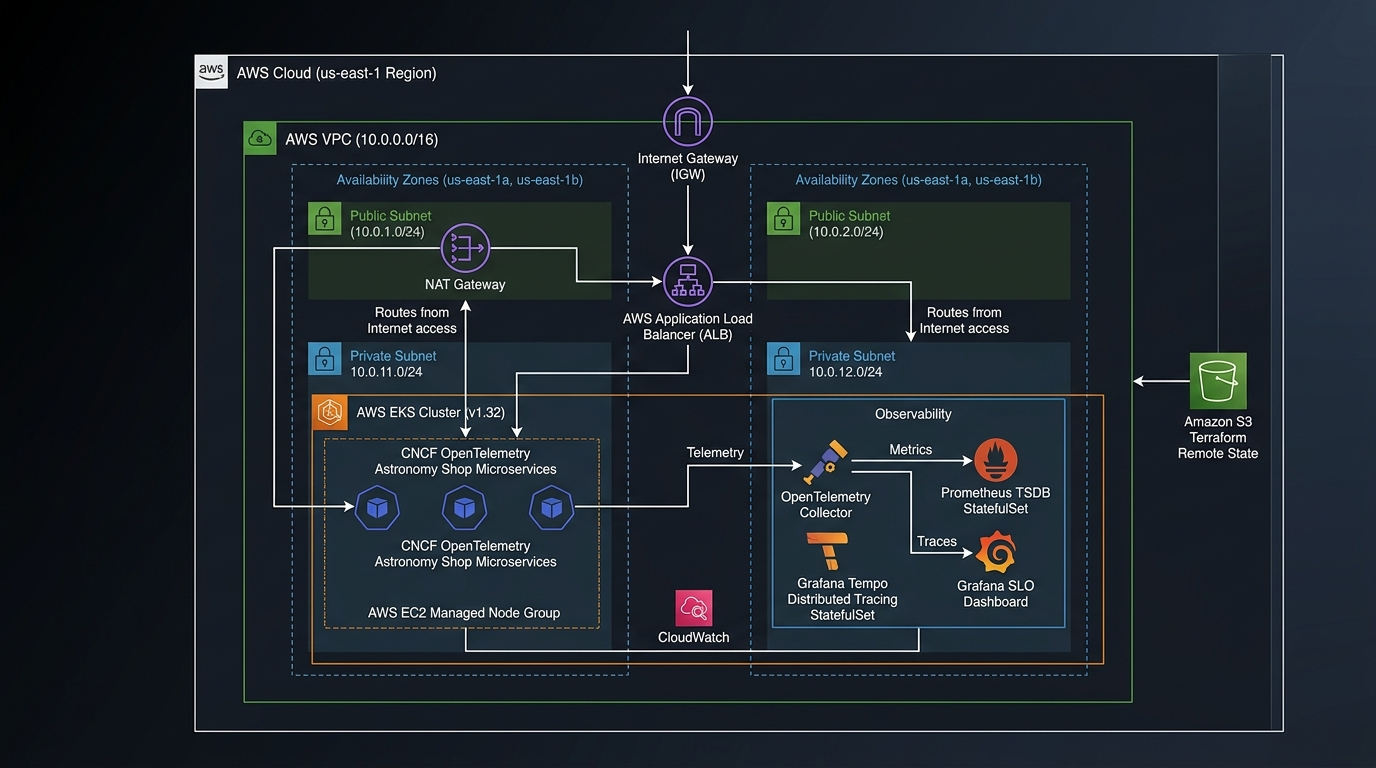
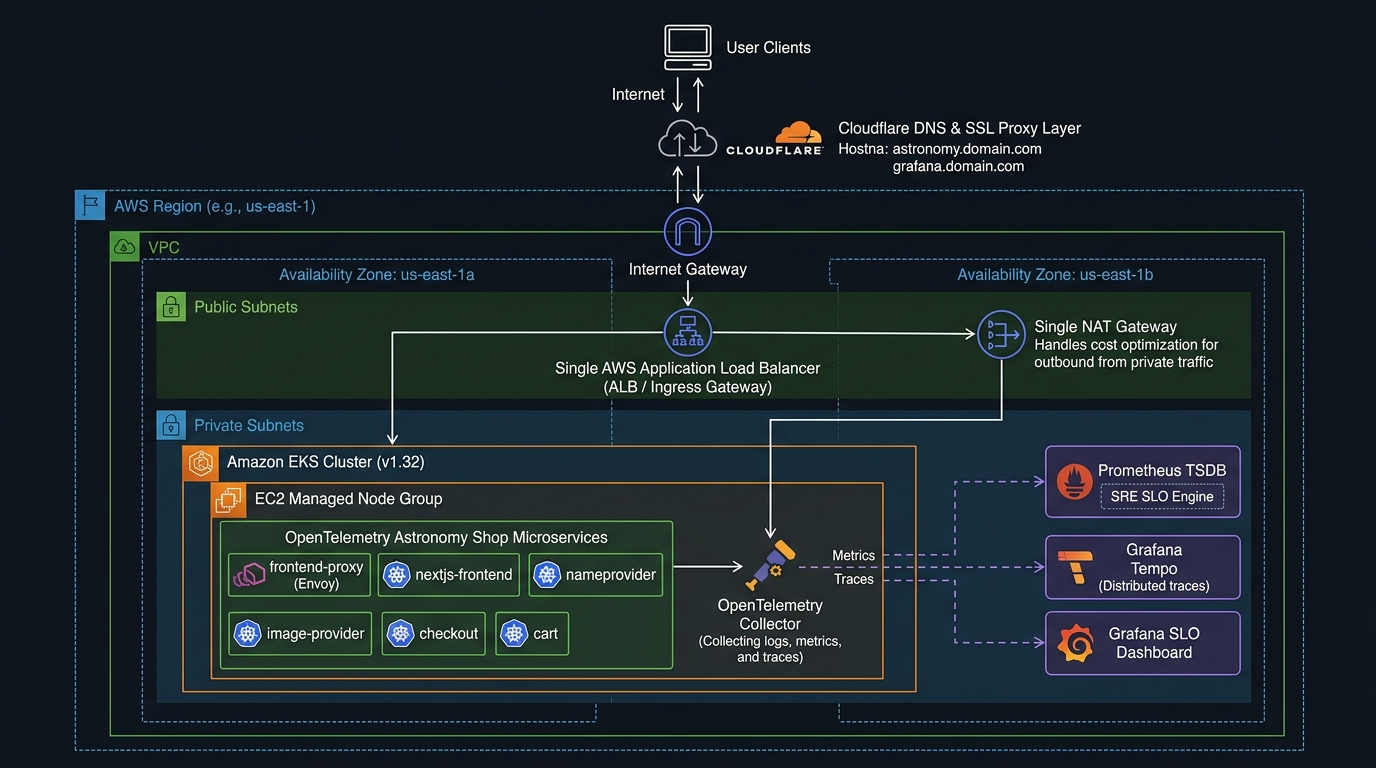
feat(infra): add toggleable Cloudflare DNS/SSL module, fix image-provider in Helm values, and update architecture diagram in README

diff --git a/README.md b/README.md
@@ -27,55 +27,13 @@ Bu proje; Cloud Native Computing Foundation (CNCF) resmi **OpenTelemetry Astrono
 
 Altyapı; AWS üzerinde çift Kullanılabilirlik Alanında (Multi-AZ) konuşlanan VPC, genel ve özel alt ağlar, tekil NAT Gateway (maliyet optimizasyonu), Kubernetes v1.32 EKS Kümesi ve EC2 Managed Node Group bileşenlerinden oluşur.
 
-```mermaid
-flowchart TD
-    subgraph CLIENT_LAYER [Kullanıcı & Yük Üretici]
-        USERS[Müşteri / Tarayıcı]
-        LOCUST[Locust Load Generator Pod]
-    end
+![AWS EKS & SRE Telemetry Architecture](docs/images/aws_architecture_diagram.jpg)
 
-    subgraph AWS_VPC [AWS VPC - 10.x.0.0/16]
-        IGW[Internet Gateway]
-        ALB[AWS Application Load Balancer]
-        
-        subgraph EKS_CLUSTER [AWS EKS Cluster v1.32]
-            subgraph APP_NS [Namespace: astronomy-shop]
-                FRONTEND[frontend-web]
-                CHECKOUT[checkoutservice]
-                CART[cartservice]
-                PAYMENT[paymentservice]
-                CATALOG[productcatalogservice]
-                SHIPPING[shippingservice]
-                FLAGD[flagd Feature Flag Chaos]
-            end
-
-            subgraph OTEL_NS [Namespace: opentelemetry]
-                OTEL_COL[OpenTelemetry Collector\nOTLP gRPC :4317 / HTTP :4318]
-            end
-
-            subgraph MON_NS [Namespace: monitoring]
-                PROM[(Prometheus TSDB StatefulSet\nSLO & Burn Rate Rules)]
-                TEMPO[(Grafana Tempo StatefulSet\nDistributed Tracing TSDB)]
-                GRAFANA[Grafana v11 Dashboard\nSLO & Error Budget Panelleri]
-            end
-        end
-    end
-
-    subgraph AWS_STORAGE [Durum & Depolama]
-        S3[(Amazon S3 State Bucket\nastronomy-tfstate-...)]
-    end
-
-    USERS -->|HTTP| ALB --> FRONTEND
-    LOCUST -->|Sürekli Trafik| FRONTEND
-    FLAGD -.->|Kaos / Hata Enjeksiyonu| CHECKOUT
-
-    FRONTEND & CHECKOUT & CART & PAYMENT & CATALOG & SHIPPING -->|OTLP Traces & Metrics| OTEL_COL
-    OTEL_COL -->|Prometheus Exporter :8889| PROM
-    OTEL_COL -->|OTLP gRPC Exporter| TEMPO
-
-    GRAFANA -->|PromQL| PROM
-    GRAFANA -->|TraceQL| TEMPO
-```
+### Mimari Katmanlar ve Trafik Akışı:
+1. **Giriş & Yönlendirme Katmanı (Ingress & DNS):** İsteğe bağlı Cloudflare DNS & SSL proxy katmanı (`astronomy.domain.com` ve `grafana.domain.com`) üzerinden gelen istekler, AWS Multi-AZ genel alt ağlarındaki tekil Ingress Gateway (ALB) tarafından karşılanır.
+2. **Uygulama Katmanı (EKS Private Subnets):** Ingress Gateway gelen trafiği `astronomy-shop` namespace'i altındaki `frontend-proxy` (Envoy) ve Next.js mikroservislerine yönlendirir. Ürün görselleri `image-provider` (Nginx) tarafından sunulur.
+3. **Telemetri & Gözlemlenebilirlik (LGTM Stack):** Tüm mikroservisler OpenTelemetry SDK ile enstrümante edilmiştir. Metrikler, loglar ve dağıtık izler (traces) `opentelemetry` namespace'indeki OTel Collector'a iletilir; oradan Prometheus TSDB ve Grafana Tempo'ya dağıtılır.
+4. **SRE & SLO Motoru:** Prometheus TSDB üzerinde tanımlı çok pencereli tüketim kuralları hata bütçesini sürekli denetler ve Grafana SLO Dashboard'larında görselleştirilir.
 
 ---
 
@@ -85,12 +43,18 @@ Bu platform, Google SRE standartlarına uygun iki temel Hizmet Seviyesi Hedefi (
 
 ### 1. Erişilebilirlik Hedefi (Availability SLO: %99.9)
 * **Hizmet Seviyesi Göstergesi (SLI):** Başarılı HTTP isteklerinin toplam isteklere oranıdır.
-  $$\text{Availability SLI} = 1 - \frac{\sum \text{rate}(http\_requests\_total\{status=\sim"5.."\}[\text{30d}])}{\sum \text{rate}(http\_requests\_total[\text{30d}])}$$
+```promql
+# Availability SLI (Son 30 Günlük Başarı Oranı)
+1 - (sum(rate(http_requests_total{status=~"5.."}[30d])) / sum(rate(http_requests_total[30d])))
+```
 * **Hata Bütçesi (Error Budget):** Toplam isteklerin azami `%0.1`'i (1.000 işlemde 1 hata) tolere edilir.
 
 ### 2. Gecikme Hedefi (Latency SLO: p95 < 500ms)
 * **SLI:** Checkout ve kritik servis çağrılarının `%95`'inin 500 milisaniyenin altında tamamlanma oranıdır.
-  $$\text{Latency SLI} = \text{histogram\_quantile}(0.95, \sum \text{rate}(http\_request\_duration\_seconds\_bucket\{job="checkoutservice"\}[5m]))$$
+```promql
+# Latency SLI (p95 Yanıt Süresi < 500ms)
+histogram_quantile(0.95, sum(rate(http_request_duration_seconds_bucket{job="checkoutservice"}[5m])) by (le))
+```
 
 ### 3. Çok Pencereli Tüketim Hızı Alarmları (Multi-Window Multi-Burn-Rate)
 Geleneksel eşik alarmları yerine, hata bütçesinin tükenme hızına göre akıllı iki kademeli alarm mekanizması çalışır:
